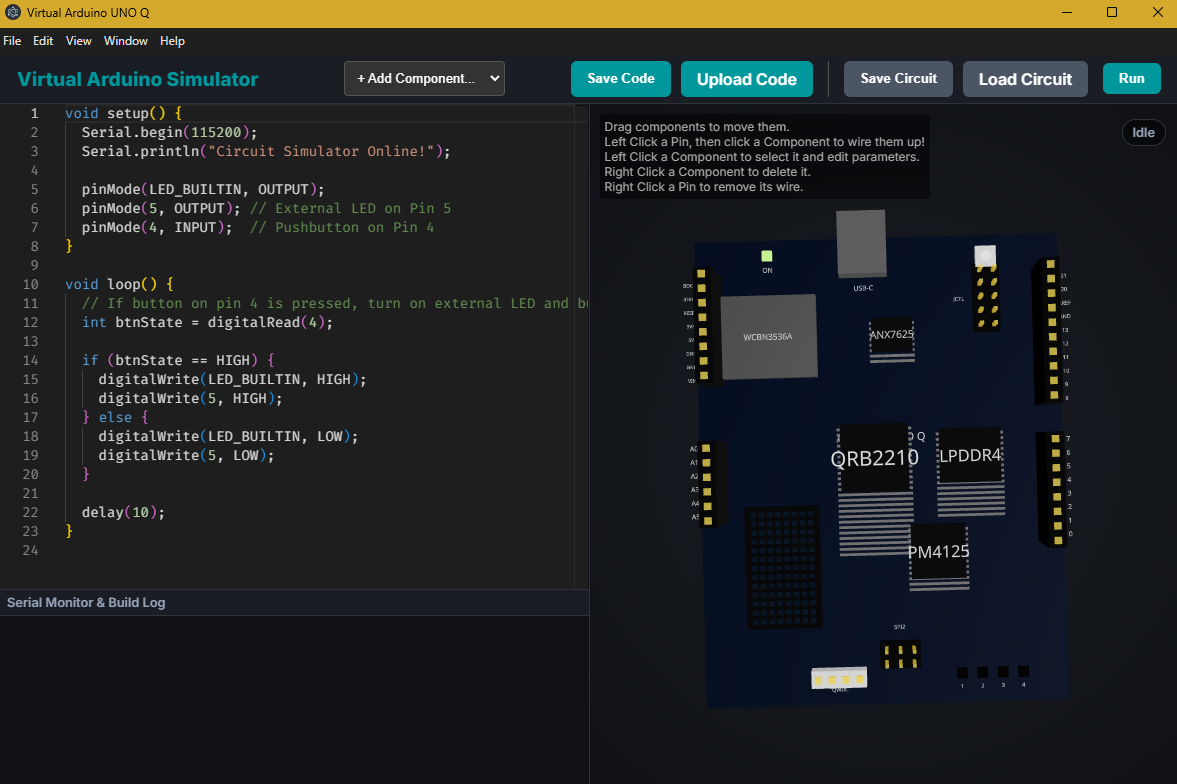
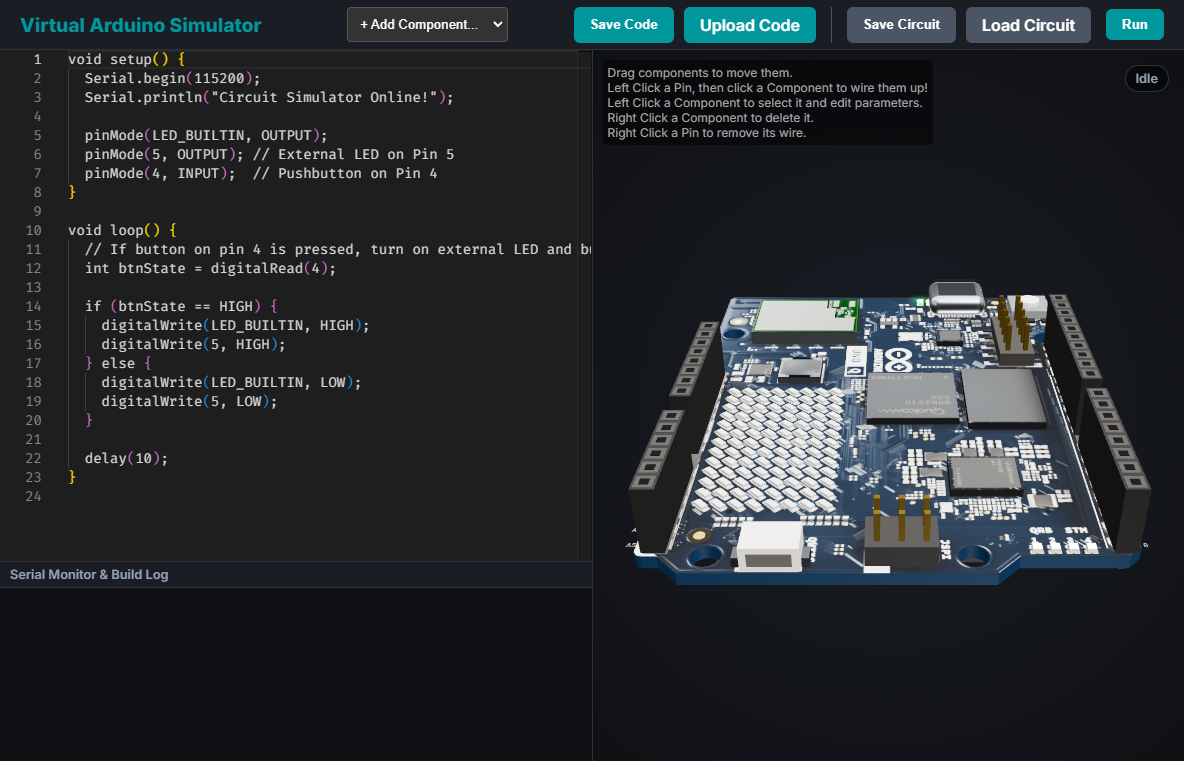
Model the back of the UNO Q and refresh the README screenshot
- Use the official back-view product photo (store.arduino.cc) as the
  bottom PCB texture, mirrored to share the top texture's UV mapping
- JMISC/JMEDIA: 2x30 1.27 mm receptacles with visible sockets, contacts
  and SMD leads, re-positioned from the photo
- Through-hole leads with solder joints under the headers and JSPI
- eMMC and STM32U585 raised on the bottom side, textured from the photo
- Extra light from below so the back side is readable
- Presentation.png re-captured from the Electron app

diff --git a/src/UnoQBoard.tsx b/src/UnoQBoard.tsx
@@ -4,6 +4,7 @@ import { Box, Cylinder, RoundedBox, Text, Html } from '@react-three/drei';
 import * as THREE from 'three';
 import { PCB_OUTLINE, PCB_HOLES } from './unoQOutline';
 import topTextureUrl from './assets/uno-q-top.jpg';
+import bottomTextureUrl from './assets/uno-q-bottom.jpg';
 import { configureTextBuilder } from 'troika-three-text';
 import silkscreenFontUrl from '@fontsource/roboto-mono/files/roboto-mono-latin-700-normal.woff';
 
@@ -19,6 +20,8 @@ export const SILK_FONT = silkscreenFontUrl;
 //   Z: -3.43 (USB-C edge, far from camera) .. +3.43 (JSPI/QWIIC edge)
 // Component positions come from the official STEP model and the official top-view
 // render (Documents/ABX00162-ABX00173-datasheet.pdf), which is also used as the PCB texture.
+// The bottom texture is the official back-view product photo (store.arduino.cc), mirrored so
+// both textures share the same UV mapping.
 // Converting from datasheet millimetres (landscape, USB-C on the left, origin bottom-left):
 //   X = (y_mm - 26.65) / 10,  Z = (x_mm - 34.8) / 10
 
@@ -31,14 +34,14 @@ const HEADER_H = 0.82; // female header height (8.5 mm)
 const FEMALE_PIN_Y = PCB_TOP + HEADER_H;
 const MALE_BASE_H = 0.25;
 const MALE_PIN_Y = PCB_TOP + 0.6;
-const BOTTOM_CONN_H = 0.15;
+const BOTTOM_CONN_H = 0.4; // JMISC/JMEDIA receptacles (STEP: 5 mm)
 const BOTTOM_PIN_Y = PCB_BOTTOM - BOTTOM_CONN_H - 0.01;
 
 const PCB_EDGE_COLOR = '#16405f';
 const GOLD = { color: '#d9b54a', metalness: 0.9, roughness: 0.3 };
 const SILVER = { color: '#c8ccd0', metalness: 1, roughness: 0.28 };
 
-// Texture coordinate of a point on the top face (the texture is the cropped official render).
+// Texture coordinate of a board point; identical for the top and the (mirrored) bottom texture.
 function texUV(x: number, z: number): [number, number] {
   return [(z * 10 + 34.3) / 68.6, (x * 10 + 26.65) / 53.3];
 }
@@ -69,8 +72,8 @@ const JSPI_X0 = -0.118;
 const JSPI_Z0 = 2.947;
 const QWIIC_X0 = -1.355;
 const QWIIC_Z = 3.17;
-const JMEDIA_Z = -2.26;
-const JMISC_Z = 2.43;
+const JMEDIA_Z = -2.205;
+const JMISC_Z = 2.467;
 const BOTTOM_X0 = 1.842;
 const BOTTOM_PITCH = 0.127;
 
@@ -169,23 +172,25 @@ function Glow({ position, size, color, opacity }: { position: [number, number, n
   );
 }
 
-// A raised block whose top face shows the matching region of the board render (chips, modules).
-function TexturedBlock({ tex, x0, x1, z0, z1, h, side = '#1d1d1f', metal = false }: { tex: THREE.Texture; x0: number; x1: number; z0: number; z1: number; h: number; side?: string; metal?: boolean }) {
+// A raised block whose outer face shows the matching region of the board texture (chips, modules).
+// With `bottom` it hangs under the PCB and uses its -Y face.
+function TexturedBlock({ tex, x0, x1, z0, z1, h, side = '#1d1d1f', metal = false, bottom = false }: { tex: THREE.Texture; x0: number; x1: number; z0: number; z1: number; h: number; side?: string; metal?: boolean; bottom?: boolean }) {
   const cx = (x0 + x1) / 2;
   const cz = (z0 + z1) / 2;
+  const face = bottom ? 3 : 2; // BoxGeometry face order: +x, -x, +y, -y, +z, -z
   const geo = useMemo(() => {
     const g = new THREE.BoxGeometry(x1 - x0, h, z1 - z0);
     const p = g.attributes.position;
     const uv = g.attributes.uv;
-    for (let i = 8; i < 12; i++) { // +Y face
+    for (let i = face * 4; i < face * 4 + 4; i++) {
       const [u, v] = texUV(cx + p.getX(i), cz + p.getZ(i));
       uv.setXY(i, u, v);
     }
     return g;
-  }, [x0, x1, z0, z1, h, cx, cz]);
+  }, [x0, x1, z0, z1, h, cx, cz, face]);
   return (
-    <mesh geometry={geo} position={[cx, PCB_TOP + h / 2, cz]}>
-      {[0, 1, 2, 3, 4, 5].map(i => i === 2
+    <mesh geometry={geo} position={[cx, bottom ? PCB_BOTTOM - h / 2 : PCB_TOP + h / 2, cz]}>
+      {[0, 1, 2, 3, 4, 5].map(i => i === face
         ? <meshStandardMaterial key={i} attach={`material-${i}`} map={tex} roughness={metal ? 0.35 : 0.6} metalness={metal ? 0.5 : 0.1} />
         : <meshStandardMaterial key={i} attach={`material-${i}`} color={side} roughness={metal ? 0.3 : 0.7} metalness={metal ? 0.9 : 0.1} />)}
     </mesh>
@@ -196,7 +201,7 @@ function TexturedBlock({ tex, x0, x1, z0, z1, h, side = '#1d1d1f', metal = false
 // Board parts
 // ---------------------------------------------------------------------------
 
-function PCB({ tex }: { tex: THREE.Texture }) {
+function PCB({ tex, bottomTex }: { tex: THREE.Texture; bottomTex: THREE.Texture }) {
   const { body, top } = useMemo(() => {
     const shape = new THREE.Shape(PCB_OUTLINE.map(([x, z]) => new THREE.Vector2(x, -z)));
     shape.holes = PCB_HOLES.map(h => new THREE.Path(h.map(([x, z]) => new THREE.Vector2(x, -z))));
@@ -218,6 +223,10 @@ function PCB({ tex }: { tex: THREE.Texture }) {
       </mesh>
       <mesh geometry={top} rotation={[-Math.PI / 2, 0, 0]} position={[0, PCB_TOP + 0.0005, 0]}>
         <meshStandardMaterial map={tex} roughness={0.5} metalness={0.05} />
+      </mesh>
+      {/* same UVs, seen from below */}
+      <mesh geometry={top} rotation={[-Math.PI / 2, 0, 0]} position={[0, PCB_BOTTOM - 0.0005, 0]}>
+        <meshStandardMaterial map={bottomTex} side={THREE.BackSide} roughness={0.5} metalness={0.05} />
       </mesh>
     </group>
   );
@@ -414,31 +423,70 @@ function LedMatrix({ frame }: { frame: number[][] }) {
   );
 }
 
-function BottomConnector({ zc, label }: { zc: number; label: string }) {
-  const len = 30 * BOTTOM_PITCH + 0.12;
+// 2x30 1.27 mm female receptacle on the bottom side, with its SMD leads soldered on both sides.
+function BottomConnector({ zc }: { zc: number }) {
+  const xc = BOTTOM_X0 - 29 * BOTTOM_PITCH / 2;
+  const len = 30 * BOTTOM_PITCH + 0.06;
+  const face = PCB_BOTTOM - BOTTOM_CONN_H;
   return (
     <group>
-      <Box args={[len, BOTTOM_CONN_H, 0.3]} position={[BOTTOM_X0 - 29 * BOTTOM_PITCH / 2, PCB_BOTTOM - BOTTOM_CONN_H / 2, zc]}>
-        <meshStandardMaterial color="#1b1b1b" roughness={0.7} />
+      <Box args={[len, BOTTOM_CONN_H, 0.32]} position={[xc, PCB_BOTTOM - BOTTOM_CONN_H / 2, zc]}>
+        <meshStandardMaterial color="#4a4948" roughness={0.75} />
       </Box>
-      <Text font={SILK_FONT} position={[BOTTOM_X0 - 29 * BOTTOM_PITCH / 2, PCB_BOTTOM - 0.001, zc + (zc > 0 ? -0.28 : 0.28)]} rotation={[Math.PI / 2, 0, 0]} fontSize={0.1} color="#e8eef5" anchorX="center" anchorY="middle">
-        {`${label} 1.8 V`}
-      </Text>
+      {Array.from({ length: 30 }).map((_, i) => {
+        const x = BOTTOM_X0 - i * BOTTOM_PITCH;
+        return (
+          <group key={i}>
+            {[1, -1].map(side => (
+              <group key={side}>
+                {/* socket opening */}
+                <Box args={[0.075, 0.004, 0.075]} position={[x, face - 0.002, zc + side * 0.067]}>
+                  <meshStandardMaterial color="#0a0a0a" roughness={1} />
+                </Box>
+                {/* contact visible inside the socket */}
+                <Box args={[0.02, 0.003, 0.05]} position={[x, face - 0.004, zc + side * 0.067]}>
+                  <meshStandardMaterial {...GOLD} />
+                </Box>
+                {/* SMD lead (odd pins on +Z, even pins on -Z) */}
+                <Box args={[0.05, 0.016, 0.15]} position={[x, PCB_BOTTOM - 0.008, zc + side * 0.235]}>
+                  <meshStandardMaterial {...GOLD} />
+                </Box>
+              </group>
+            ))}
+          </group>
+        );
+      })}
     </group>
   );
 }
 
-function BottomSide() {
+// Through-hole leads of the top headers, sticking out under the board with their solder joints.
+function ThroughHoleLeads() {
+  const leads = PINS.filter(p => p.pinType === 'female' || p.id.startsWith('SPI2_'));
   return (
     <group>
-      <BottomConnector zc={JMISC_Z} label="JMISC" />
-      <BottomConnector zc={JMEDIA_Z} label="JMEDIA" />
-      {/* eMMC and STM32U585 MCU */}
-      <Box args={[1.3, 0.1, 1.15]} position={[-0.065, PCB_BOTTOM - 0.05, 1.275]}><meshStandardMaterial color="#1c1c1e" roughness={0.6} /></Box>
-      <Text font={SILK_FONT} position={[-0.065, PCB_BOTTOM - 0.101, 1.275]} rotation={[Math.PI / 2, 0, 0]} fontSize={0.1} color="#9a9a9a">eMMC</Text>
-      <Box args={[0.7, 0.1, 0.7]} position={[-1.475, PCB_BOTTOM - 0.05, 0.97]}><meshStandardMaterial color="#1c1c1e" roughness={0.6} /></Box>
-      <Text font={SILK_FONT} position={[-1.475, PCB_BOTTOM - 0.101, 0.97]} rotation={[Math.PI / 2, 0, 0]} fontSize={0.07} color="#9a9a9a">STM32U585</Text>
-      <Text font={SILK_FONT} position={[0.2, PCB_BOTTOM - 0.001, -0.6]} rotation={[Math.PI / 2, 0, Math.PI / 2]} fontSize={0.22} color="#e8eef5">ARDUINO UNO Q</Text>
+      {leads.map(p => (
+        <group key={p.id} position={[p.pos[0], PCB_BOTTOM, p.pos[2]]}>
+          <Cylinder args={[0.085, 0.05, 0.035, 16]} position={[0, -0.0175, 0]}>
+            <meshStandardMaterial color="#d4d6d8" metalness={0.95} roughness={0.25} />
+          </Cylinder>
+          <Box args={[0.064, 0.14, 0.064]} position={[0, -0.07, 0]}>
+            <meshStandardMaterial color="#c9cbcd" metalness={1} roughness={0.3} />
+          </Box>
+        </group>
+      ))}
+    </group>
+  );
+}
+
+function BottomSide({ tex }: { tex: THREE.Texture }) {
+  return (
+    <group>
+      <BottomConnector zc={JMISC_Z} />
+      <BottomConnector zc={JMEDIA_Z} />
+      <ThroughHoleLeads />
+      <TexturedBlock tex={tex} bottom x0={-0.718} x1={0.571} z0={0.715} z1={1.85} h={0.1} />{/* eMMC */}
+      <TexturedBlock tex={tex} bottom x0={-1.834} x1={-1.128} z0={0.63} z1={1.315} h={0.08} />{/* STM32U585 */}
     </group>
   );
 }
@@ -450,7 +498,7 @@ function PinHitbox({ pin, selected, onClick, onRightClick }: { pin: BoardPin; se
     pin.pinType === 'female' ? [0.22, 0.06, 0.22] :
     pin.pinType === 'male' ? [0.12, 0.14, 0.12] :
     pin.pinType === 'smd' ? [0.08, 0.06, 0.12] :
-    [0.1, 0.05, 0.1];
+    [0.11, 0.05, 0.12];
   const active = hover || selected;
   return (
     <group position={pin.pos}>
@@ -503,15 +551,17 @@ function HeaderLabels() {
 }
 
 export function UnoQBoard({ matrixFrame, rgb1, rgb2, rgb3, rgb4, onPinClick, onPinRightClick, selectedPin }: any) {
-  const tex = useLoader(THREE.TextureLoader, topTextureUrl);
+  const [tex, bottomTex] = useLoader(THREE.TextureLoader, [topTextureUrl, bottomTextureUrl]);
   useMemo(() => {
-    tex.colorSpace = THREE.SRGBColorSpace;
-    tex.anisotropy = 8;
-  }, [tex]);
+    for (const t of [tex, bottomTex]) {
+      t.colorSpace = THREE.SRGBColorSpace;
+      t.anisotropy = 8;
+    }
+  }, [tex, bottomTex]);
 
   return (
     <group>
-      <PCB tex={tex} />
+      <PCB tex={tex} bottomTex={bottomTex} />
 
       {/* Chips and modules (top faces textured from the render) */}
       <TexturedBlock tex={tex} x0={-2.075} x1={-0.475} z0={-2.88} z1={-1.68} h={0.2} side="#b9bec2" metal />{/* WCBN3536A Wi-Fi/BT module */}
@@ -539,7 +589,7 @@ export function UnoQBoard({ matrixFrame, rgb1, rgb2, rgb3, rgb4, onPinClick, onP
       <RgbLed position={[1.935, 0, 3.08]} colorArr={rgb3} />
       <RgbLed position={[2.125, 0, 3.08]} colorArr={rgb4} />
 
-      <BottomSide />
+      <BottomSide tex={bottomTex} />
       <HeaderLabels />
 
       {PINS.map(p => (

diff --git a/src/Board3D.tsx b/src/Board3D.tsx
@@ -460,6 +460,7 @@ export default function Board3D(props: Board3DProps) {
       <ambientLight intensity={0.6} />
       <directionalLight position={[4, 10, 6]} intensity={2.2} />
       <directionalLight position={[-6, 4, -4]} intensity={0.6} />
+      <directionalLight position={[2, -10, 3]} intensity={1.4} />
       <pointLight position={[-10, -10, -10]} intensity={0.5} />
       <Environment resolution={256}>
         <Lightformer intensity={2} position={[0, 6, 0]} rotation-x={Math.PI / 2} scale={[10, 10, 1]} />
